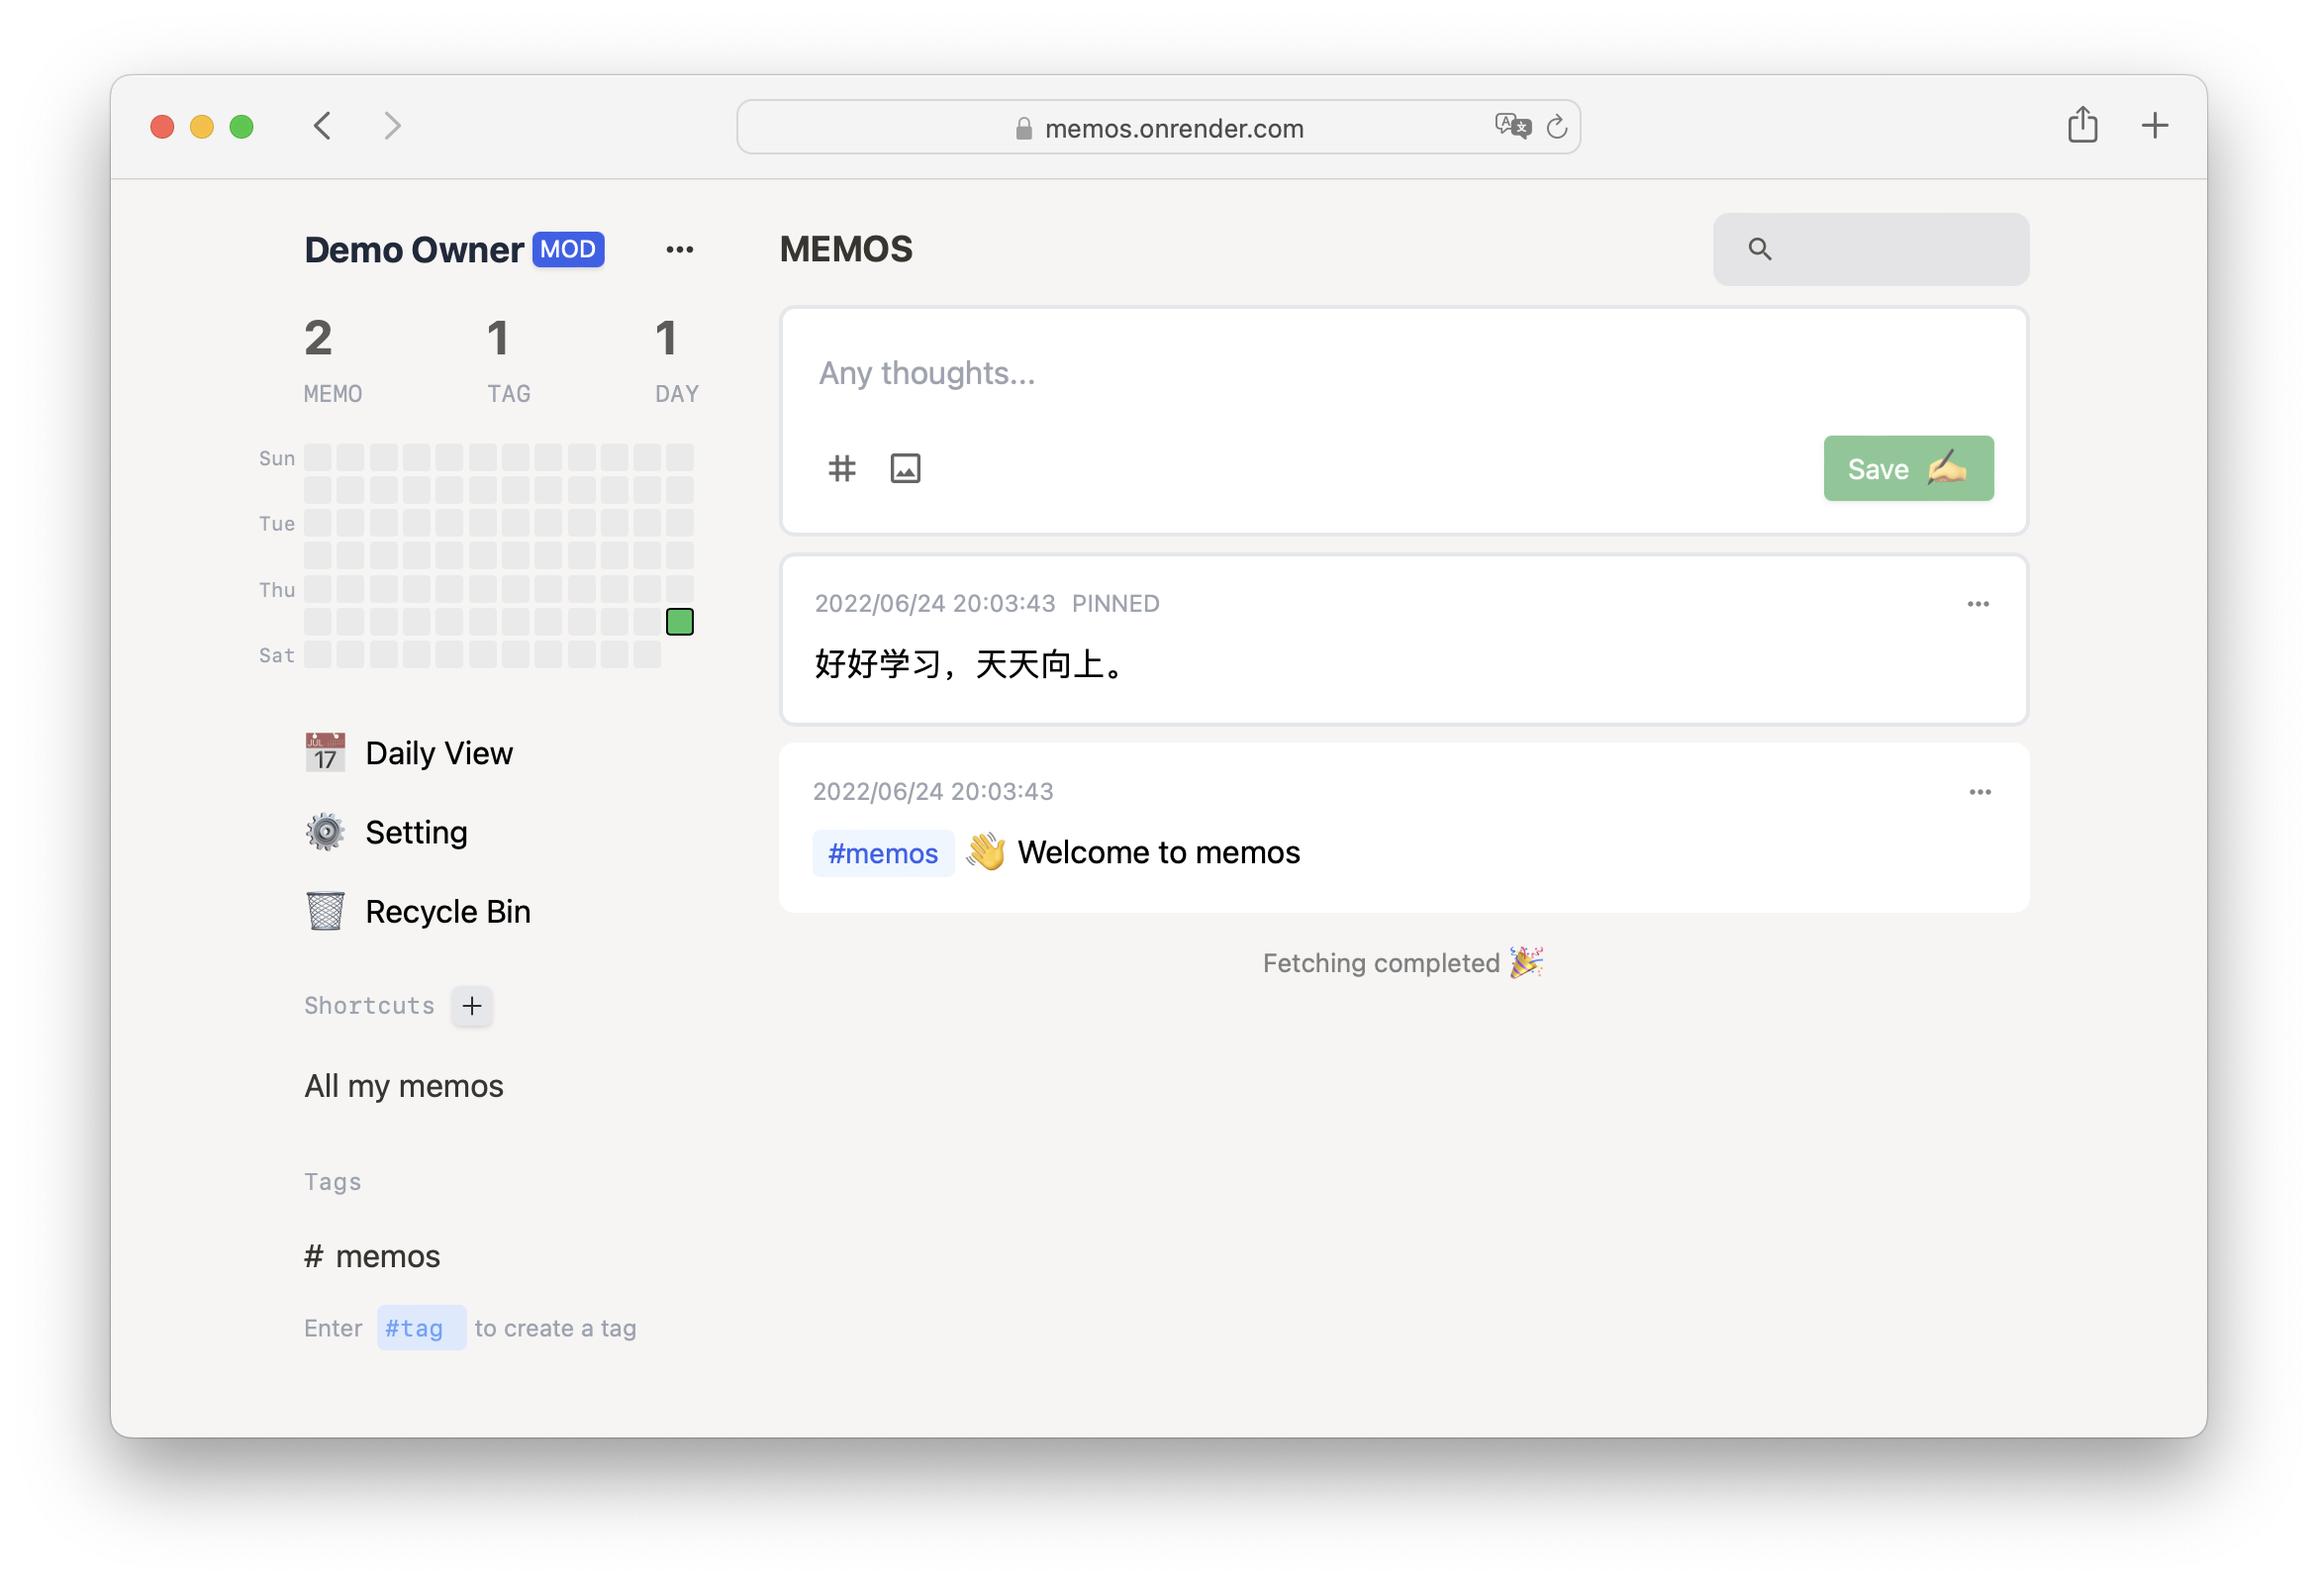
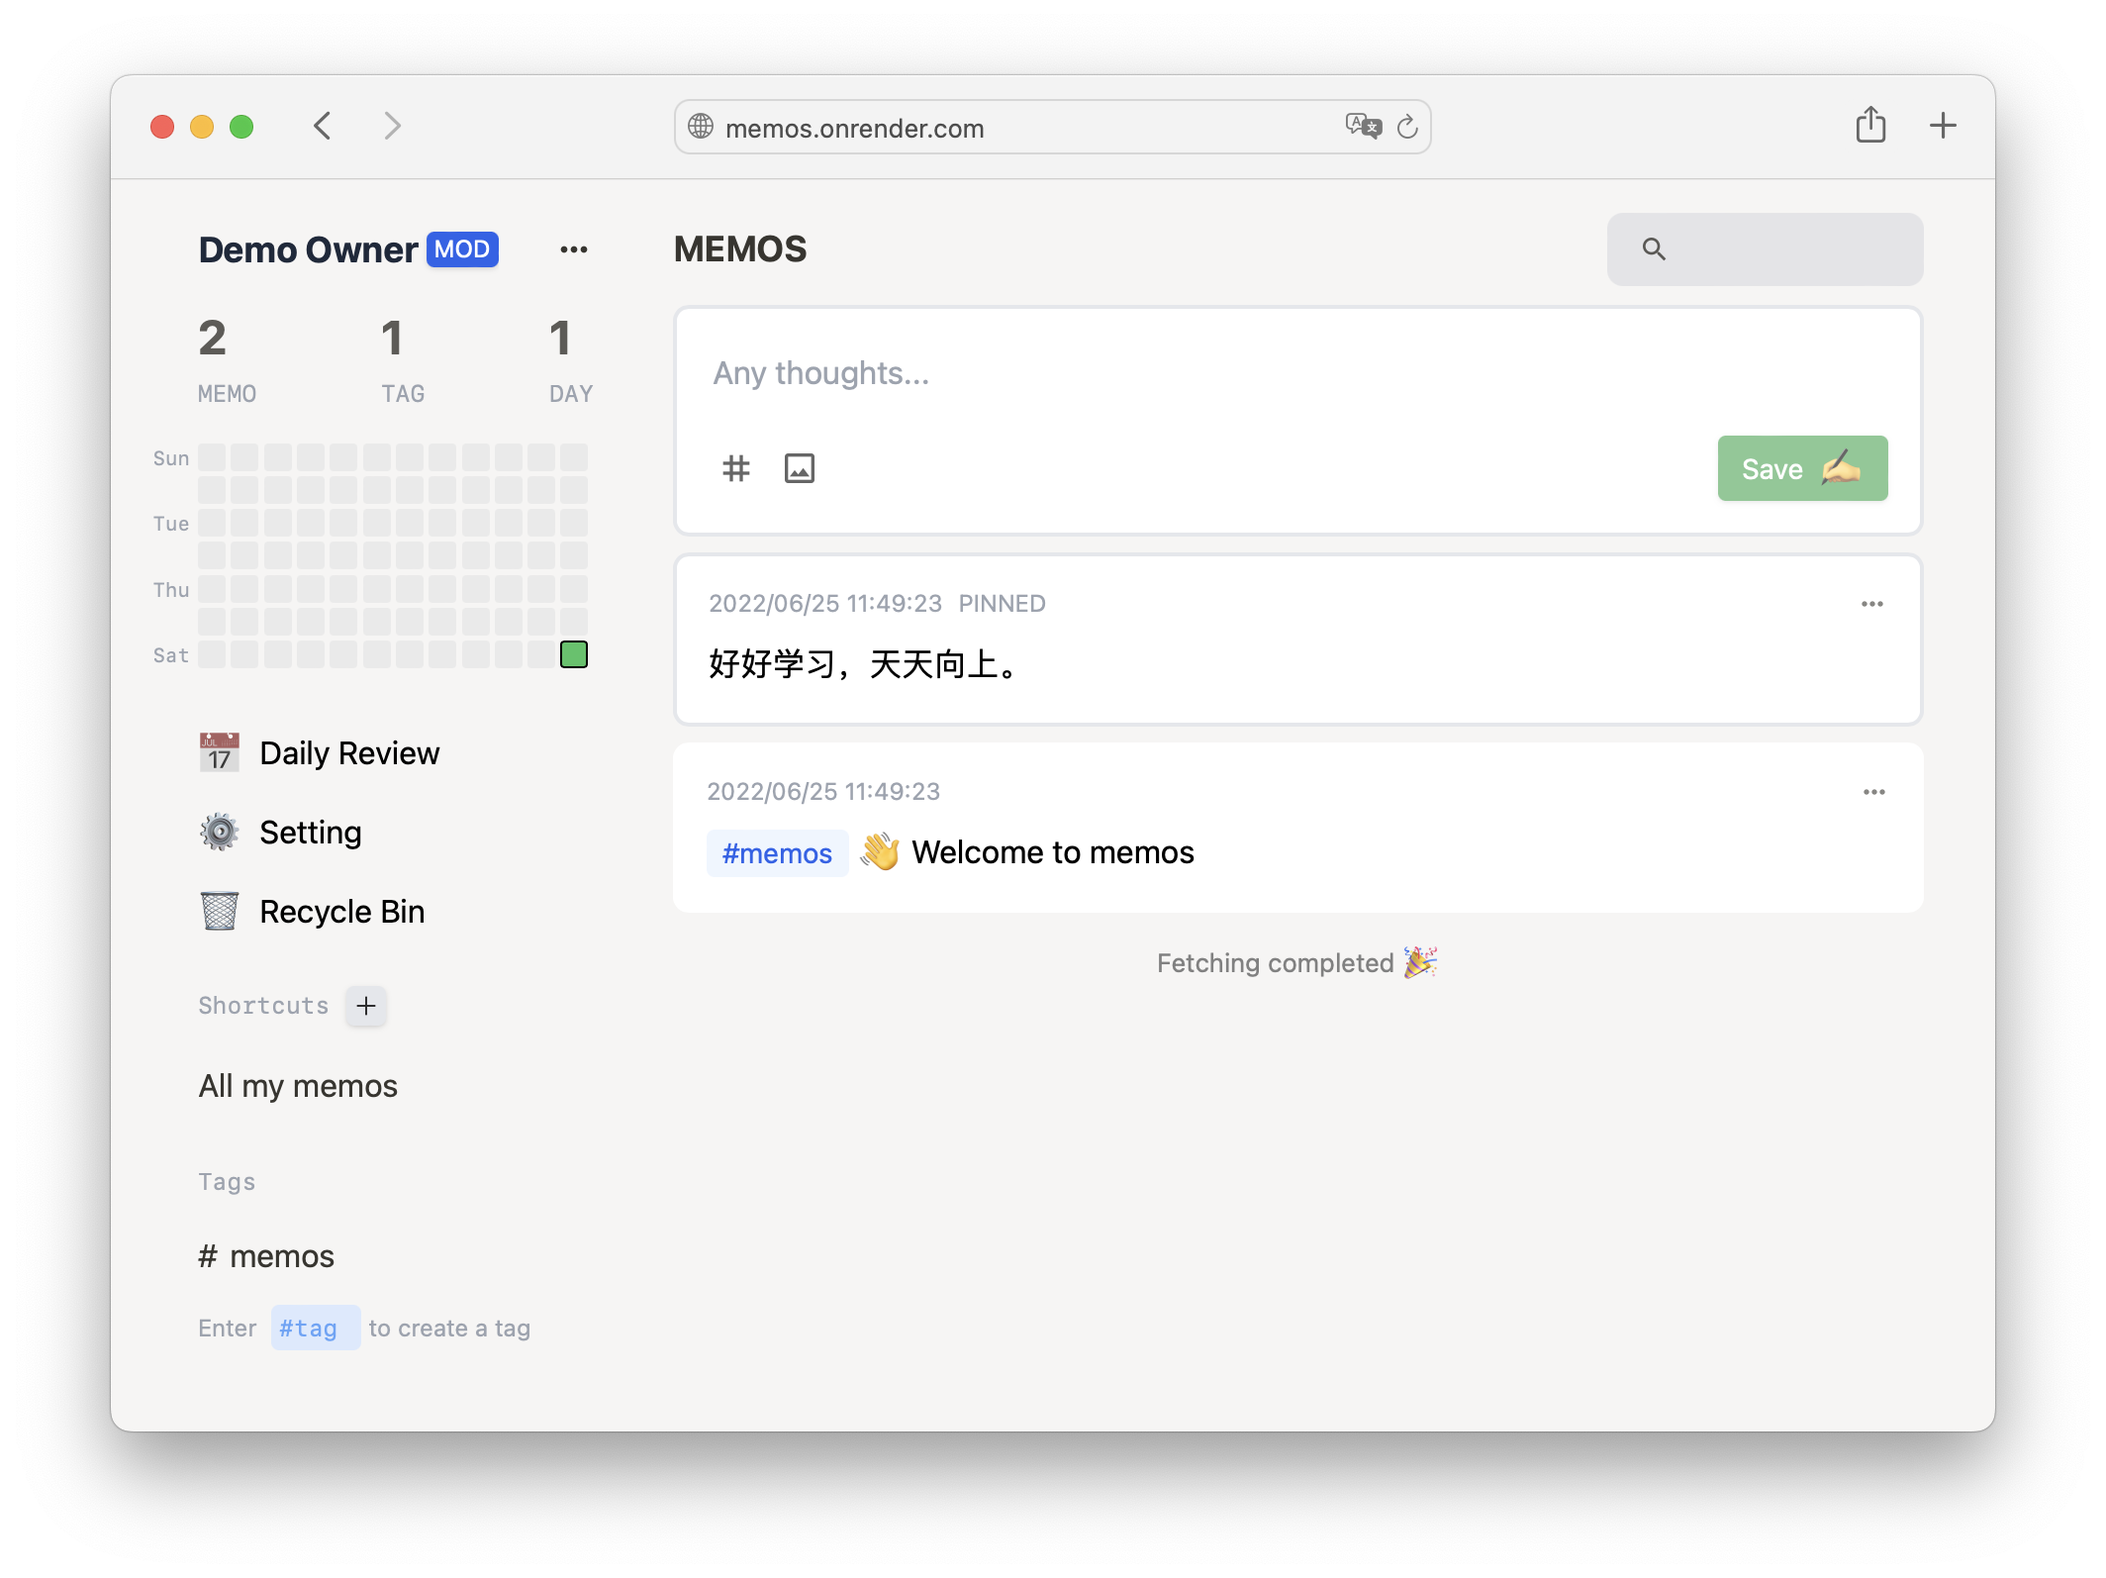
chore: rename to `DailyReviewDialog`

diff --git a/web/src/components/DailyReviewDialog.tsx b/web/src/components/DailyReviewDialog.tsx
@@ -1,15 +1,14 @@
-import { useEffect, useRef, useState } from "react";
-import { memoService } from "../services";
+import { useRef, useState } from "react";
+import { useAppSelector } from "../store";
 import toImage from "../labs/html2image";
 import useToggle from "../hooks/useToggle";
-import useLoading from "../hooks/useLoading";
 import { DAILY_TIMESTAMP } from "../helpers/consts";
 import * as utils from "../helpers/utils";
 import { showDialog } from "./Dialog";
+import DatePicker from "./common/DatePicker";
 import showPreviewImageDialog from "./PreviewImageDialog";
 import DailyMemo from "./DailyMemo";
-import DatePicker from "./common/DatePicker";
-import "../less/daily-memo-diary-dialog.less";
+import "../less/daily-review-dialog.less";
 
 interface Props extends DialogProps {
   currentDateStamp: DateStamp;
@@ -18,50 +17,38 @@ interface Props extends DialogProps {
 const monthChineseStrArray = ["Jan", "Feb", "Mar", "Apr", "May", "Jun", "Jul", "Aug", "Sept", "Oct", "Nov", "Dev"];
 const weekdayChineseStrArray = ["Sun", "Mon", "Tue", "Wed", "Thu", "Fri", "Sat"];
 
-const DailyMemoDiaryDialog: React.FC<Props> = (props: Props) => {
-  const loadingState = useLoading();
-  const [memos, setMemos] = useState<Memo[]>([]);
+const DailyReviewDialog: React.FC<Props> = (props: Props) => {
+  const memos = useAppSelector((state) => state.memo.memos);
   const [currentDateStamp, setCurrentDateStamp] = useState(utils.getDateStampByDate(utils.getDateString(props.currentDateStamp)));
   const [showDatePicker, toggleShowDatePicker] = useToggle(false);
   const memosElRef = useRef<HTMLDivElement>(null);
   const currentDate = new Date(currentDateStamp);
-
-  useEffect(() => {
-    const setDailyMemos = () => {
-      const dailyMemos = memoService
-        .getState()
-        .memos.filter(
-          (a) =>
-            utils.getTimeStampByDate(a.createdTs) >= currentDateStamp &&
-            utils.getTimeStampByDate(a.createdTs) < currentDateStamp + DAILY_TIMESTAMP
-        )
-        .sort((a, b) => utils.getTimeStampByDate(a.createdTs) - utils.getTimeStampByDate(b.createdTs));
-      setMemos(dailyMemos);
-      loadingState.setFinish();
-    };
-
-    setDailyMemos();
-  }, [currentDateStamp]);
+  const dailyMemos = memos
+    .filter(
+      (m) =>
+        m.rowStatus === "NORMAL" &&
+        utils.getTimeStampByDate(m.createdTs) >= currentDateStamp &&
+        utils.getTimeStampByDate(m.createdTs) < currentDateStamp + DAILY_TIMESTAMP
+    )
+    .sort((a, b) => utils.getTimeStampByDate(a.createdTs) - utils.getTimeStampByDate(b.createdTs));
 
   const handleShareBtnClick = () => {
+    if (!memosElRef.current) {
+      return;
+    }
+
     toggleShowDatePicker(false);
 
-    setTimeout(() => {
-      if (!memosElRef.current) {
-        return;
-      }
-
-      toImage(memosElRef.current, {
-        backgroundColor: "#ffffff",
-        pixelRatio: window.devicePixelRatio * 2,
+    toImage(memosElRef.current, {
+      backgroundColor: "#ffffff",
+      pixelRatio: window.devicePixelRatio * 2,
+    })
+      .then((url) => {
+        showPreviewImageDialog(url);
       })
-        .then((url) => {
-          showPreviewImageDialog(url);
-        })
-        .catch(() => {
-          // do nth
-        });
-    }, 0);
+      .catch(() => {
+        // do nth
+      });
   };
 
   const handleDataPickerChange = (datestamp: DateStamp): void => {
@@ -72,8 +59,8 @@ const DailyMemoDiaryDialog: React.FC<Props> = (props: Props) => {
   return (
     <>
       <div className="dialog-header-container">
-        <p className="title-text">
-          <span className="icon-text">📅</span> Daily Memos
+        <p className="title-text" onClick={() => toggleShowDatePicker()}>
+          <span className="icon-text">📅</span> Daily Review
         </p>
         <div className="btns-container">
           <span className="btn-text" onClick={() => setCurrentDateStamp(currentDateStamp - DAILY_TIMESTAMP)}>
@@ -89,9 +76,14 @@ const DailyMemoDiaryDialog: React.FC<Props> = (props: Props) => {
             <img className="icon-img" src="/icons/close.svg" />
           </span>
         </div>
+        <DatePicker
+          className={`date-picker ${showDatePicker ? "" : "!hidden"}`}
+          datestamp={currentDateStamp}
+          handleDateStampChange={handleDataPickerChange}
+        />
       </div>
       <div className="dialog-content-container" ref={memosElRef}>
-        <div className="date-card-container" onClick={() => toggleShowDatePicker()}>
+        <div className="date-card-container">
           <div className="year-text">{currentDate.getFullYear()}</div>
           <div className="date-container">
             <div className="month-text">{monthChineseStrArray[currentDate.getMonth()]}</div>
@@ -99,22 +91,13 @@ const DailyMemoDiaryDialog: React.FC<Props> = (props: Props) => {
             <div className="day-text">{weekdayChineseStrArray[currentDate.getDay()]}</div>
           </div>
         </div>
-        <DatePicker
-          className={`date-picker ${showDatePicker ? "" : "!hidden"}`}
-          datestamp={currentDateStamp}
-          handleDateStampChange={handleDataPickerChange}
-        />
-        {loadingState.isLoading ? (
-          <div className="tip-container">
-            <p className="tip-text">Loading...</p>
-          </div>
-        ) : memos.length === 0 ? (
+        {dailyMemos.length === 0 ? (
           <div className="tip-container">
             <p className="tip-text">Oops, there is nothing.</p>
           </div>
         ) : (
           <div className="dailymemos-wrapper">
-            {memos.map((memo) => (
+            {dailyMemos.map((memo) => (
               <DailyMemo key={`${memo.id}-${memo.updatedTs}`} memo={memo} />
             ))}
           </div>
@@ -124,12 +107,13 @@ const DailyMemoDiaryDialog: React.FC<Props> = (props: Props) => {
   );
 };
 
-export default function showDailyMemoDiaryDialog(datestamp: DateStamp = Date.now()): void {
+export default function showDailyReviewDialog(datestamp: DateStamp = Date.now()): void {
   showDialog(
     {
-      className: "daily-memo-diary-dialog",
+      className: "daily-review-dialog",
+      useAppContext: true,
     },
-    DailyMemoDiaryDialog,
+    DailyReviewDialog,
     { currentDateStamp: datestamp }
   );
 }

diff --git a/web/src/less/daily-review-dialog.less b/web/src/less/daily-review-dialog.less
@@ -1,13 +1,17 @@
 @import "./mixin.less";
 
-.daily-memo-diary-dialog {
+.daily-review-dialog {
   @apply p-0 sm:py-16;
 
   > .dialog-container {
     @apply w-112 max-w-full grow sm:grow-0 bg-white p-0 rounded-none sm:rounded-lg;
 
     > .dialog-header-container {
-      @apply flex flex-row justify-between items-center w-full p-6 pb-0 mb-0;
+      @apply relative flex flex-row justify-between items-center w-full p-6 pb-0 mb-0;
+
+      > .title-text {
+        @apply cursor-pointer select-none rounded hover:bg-gray-100;
+      }
 
       > .btns-container {
         @apply flex flex-row justify-start items-center;
@@ -23,6 +27,10 @@
             @apply ~"p-0.5";
           }
         }
+      }
+
+      > .date-picker {
+        @apply absolute top-12 left-4 mt-2 bg-white shadow z-20 mx-auto border border-gray-200 rounded-lg mb-6;
       }
     }
 
@@ -63,10 +71,6 @@
             @apply text-xs;
           }
         }
-      }
-
-      > .date-picker {
-        @apply mx-auto border border-gray-200 rounded-lg mb-6;
       }
 
       > .tip-container {

diff --git a/web/src/components/Sidebar.tsx b/web/src/components/Sidebar.tsx
@@ -1,6 +1,6 @@
 import { useAppSelector } from "../store";
 import * as utils from "../helpers/utils";
-import showDailyMemoDiaryDialog from "./DailyMemoDiaryDialog";
+import showDailyReviewDialog from "./DailyReviewDialog";
 import showSettingDialog from "./SettingDialog";
 import showMemoTrashDialog from "./MemoTrashDialog";
 import UserBanner from "./UserBanner";
@@ -49,8 +49,8 @@ const Sidebar: React.FC<Props> = () => {
       </div>
       <UsageHeatMap />
       <div className="action-btns-container">
-        <button className="btn action-btn" onClick={() => showDailyMemoDiaryDialog()}>
-          <span className="icon">📅</span> Daily View
+        <button className="btn action-btn" onClick={() => showDailyReviewDialog()}>
+          <span className="icon">📅</span> Daily Review
         </button>
         <button className="btn action-btn" onClick={handleMyAccountBtnClick}>
           <span className="icon">⚙</span> Setting

diff --git a/web/src/components/ShareMemoImageDialog.tsx b/web/src/components/ShareMemoImageDialog.tsx
@@ -65,7 +65,7 @@ const ShareMemoImageDialog: React.FC<Props> = (props: Props) => {
     <>
       <div className="dialog-header-container">
         <p className="title-text">
-          <span className="icon-text">🥰</span>Share Memo
+          <span className="icon-text">🌄</span>Share Memo
         </p>
         <button className="btn close-btn" onClick={handleCloseBtnClick}>
           <img className="icon-img" src="/icons/close.svg" />
